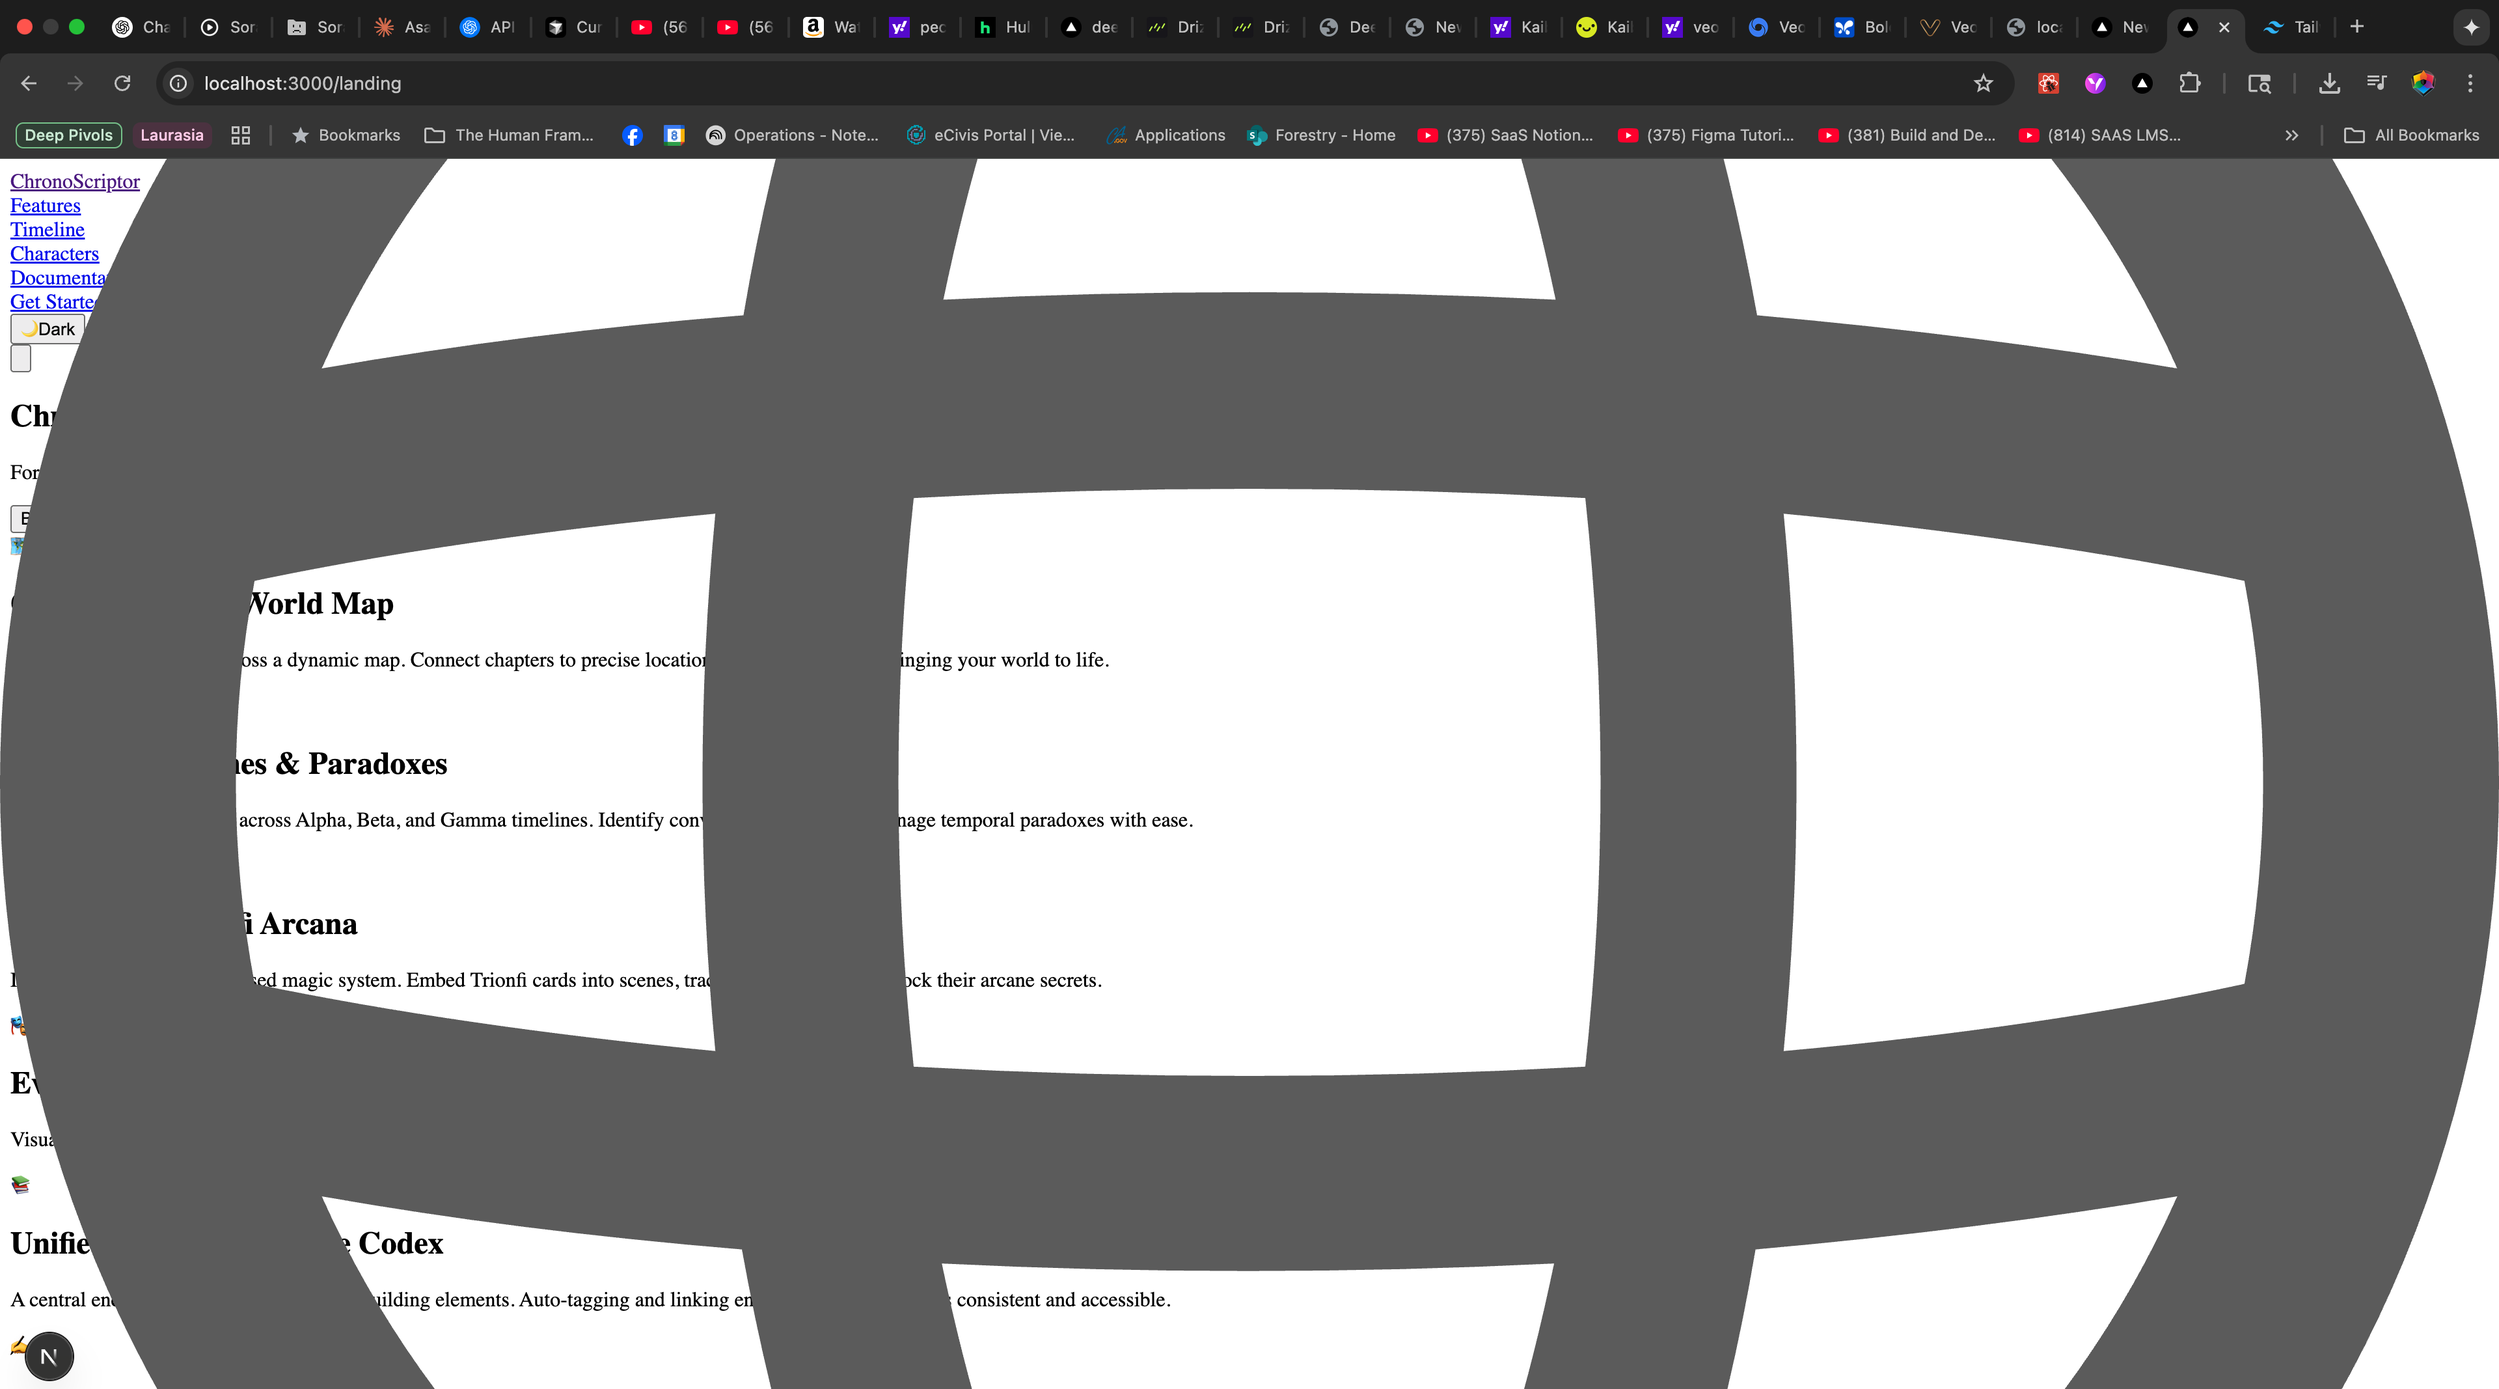
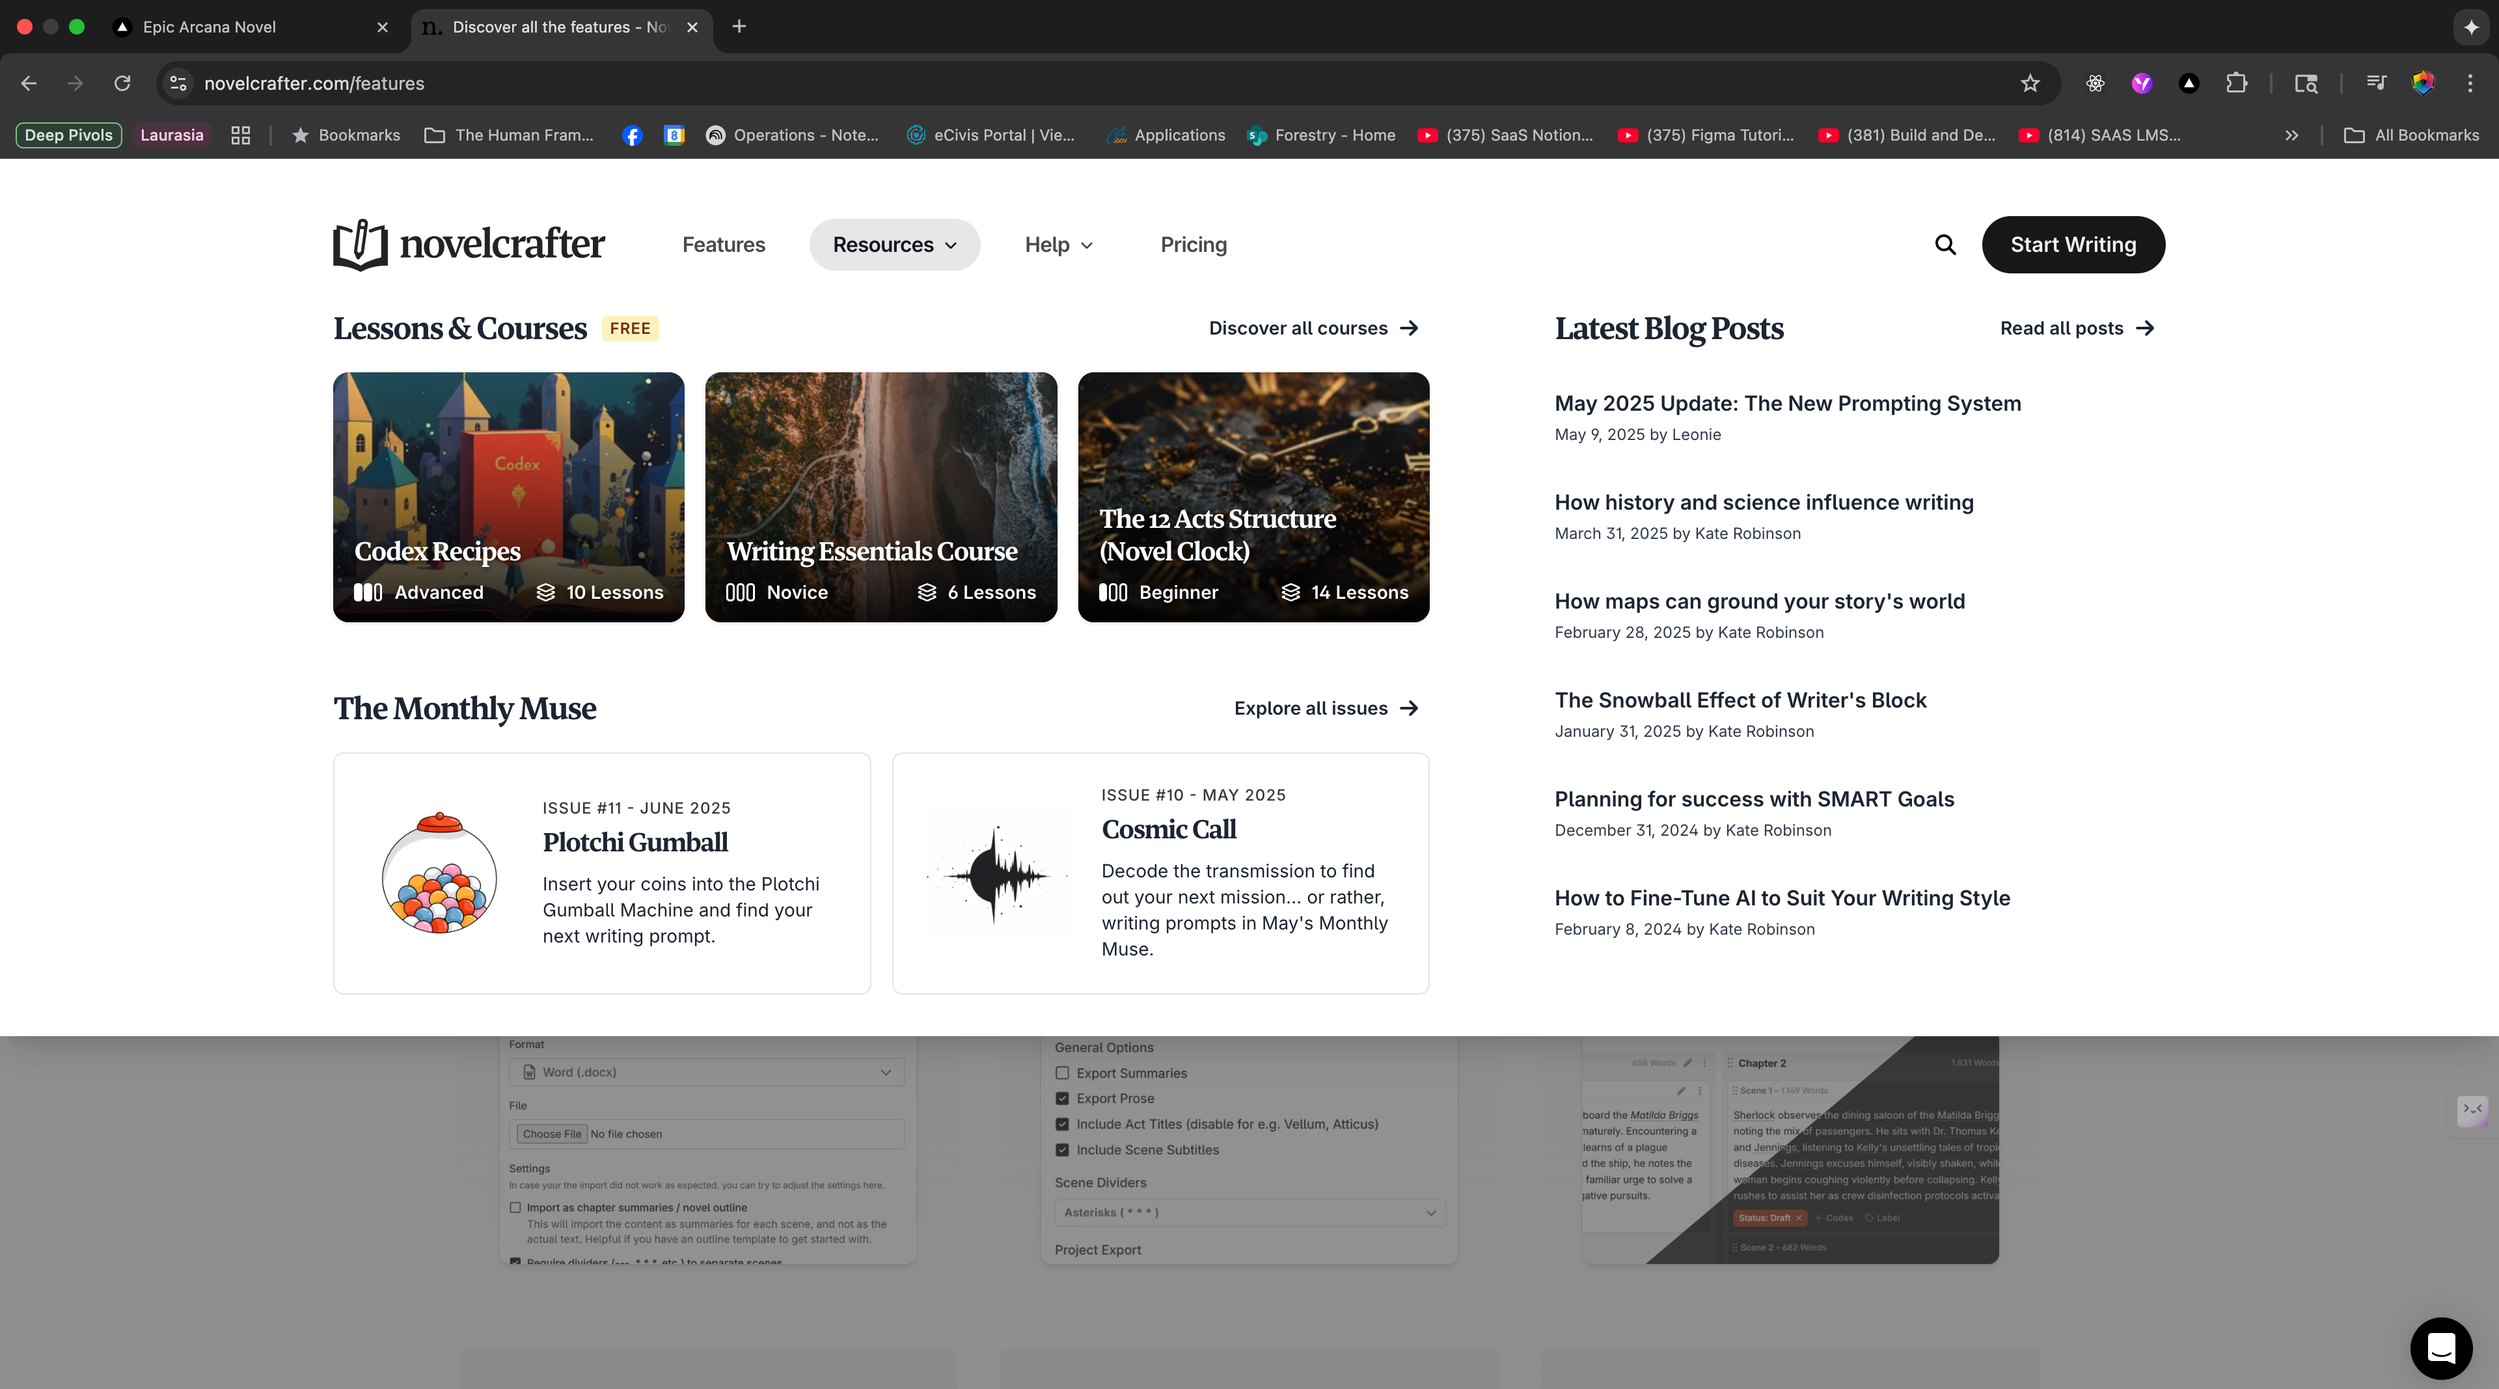
feat: enhance Navbar with features dropdown and mobile menu support
- Added a dropdown menu to the Navbar for showcasing various features with descriptions and icons.
- Updated mobile menu to include a section for features, allowing users to view and navigate to key functionalities easily.
- Removed the 'Features' item from the main navigation list to streamline the menu structure.
- Improved animations and transitions for a more dynamic user experience.

diff --git a/src/app/landing/components/Navbar.tsx b/src/app/landing/components/Navbar.tsx
@@ -4,15 +4,74 @@ import React, { useState } from 'react';
 import { motion, AnimatePresence } from 'framer-motion';
 import Link from 'next/link';
 import { ThemeToggleButton } from '@/components/ThemeToggleButton';
+import { DropdownMenu } from '@/components/DropdownMenu';
 
 export function Navbar() {
   const [isMobileMenuOpen, setIsMobileMenuOpen] = useState(false);
 
   const navItems = [
-    { name: 'Features', href: '#features' },
     { name: 'Timeline', href: '/timeline' },
     { name: 'Characters', href: '/characters' },
     { name: 'Documentation', href: '/docs' },
+  ];
+
+  const featureItems = [
+    {
+      title: 'Chapter-Centric World Map',
+      description: 'Interactive map connecting chapters to locations and lore',
+      href: '/features/world-map',
+      icon: '🗺',
+      category: 'Core Features'
+    },
+    {
+      title: 'Timeline & Paradox System',
+      description: 'Track Alpha, Beta, Gamma timelines and paradox triggers',
+      href: '/features/timelines',
+      icon: '⏳',
+      category: 'Core Features'
+    },
+    {
+      title: 'Trionfi Card Engine',
+      description: 'Embed tarot-based magic system into scenes and chapters',
+      href: '/features/trionfi-cards',
+      icon: '🃏',
+      category: 'Core Features'
+    },
+    {
+      title: 'Chapter Builder',
+      description: 'Markdown editor with Sudowrite sync and AI integration',
+      href: '/features/chapter-builder',
+      icon: '✍',
+      category: 'Writing Tools'
+    },
+    {
+      title: 'Character Arc Visualizer',
+      description: 'Graph-style matrix for character relationships and development',
+      href: '/features/character-arcs',
+      icon: '🎭',
+      category: 'Writing Tools'
+    },
+    {
+      title: 'Lore & Narrative Codex',
+      description: 'Unified encyclopedia with auto-tagging and linking',
+      href: '/features/lore-codex',
+      icon: '📚',
+      category: 'Writing Tools'
+    },
+    {
+      title: 'AI Integration',
+      description: 'Taskmaster AI for scene analysis and arc consistency',
+      href: '/features/ai-tools',
+      icon: '🤖',
+      category: 'AI Tools'
+    },
+    {
+      title: 'Sudowrite Sync',
+      description: 'Seamless integration with Sudowrite for drafting',
+      href: '/features/sudowrite-sync',
+      icon: '🔄',
+      category: 'AI Tools'
+    }
   ];
 
   return (
@@ -43,12 +102,39 @@ export function Navbar() {
             animate={{ opacity: 1, y: 0 }}
             transition={{ duration: 0.5, delay: 0.4, ease: [0.25, 0.1, 0.25, 1] }}
           >
+            {/* Features Dropdown */}
+            <motion.div
+              initial={{ opacity: 0, y: -10 }}
+              animate={{ opacity: 1, y: 0 }}
+              transition={{ duration: 0.3, delay: 0.5 }}
+            >
+              <DropdownMenu
+                trigger={
+                  <div className="flex items-center text-gray-700 dark:text-gray-300 hover:text-purple-600 dark:hover:text-purple-400 font-medium transition-colors duration-200 relative group">
+                    Features
+                    <svg 
+                      className="ml-1 w-4 h-4 transition-transform duration-200 group-hover:rotate-180" 
+                      fill="none" 
+                      stroke="currentColor" 
+                      viewBox="0 0 24 24"
+                    >
+                      <path strokeLinecap="round" strokeLinejoin="round" strokeWidth={2} d="M19 9l-7 7-7-7" />
+                    </svg>
+                    <span className="absolute inset-x-0 -bottom-1 h-0.5 bg-gradient-to-r from-purple-600 to-blue-600 scale-x-0 group-hover:scale-x-100 transition-transform duration-200"></span>
+                  </div>
+                }
+                items={featureItems}
+                title="ChronoScriptor Features"
+              />
+            </motion.div>
+
+            {/* Other Nav Items */}
             {navItems.map((item, index) => (
               <motion.div
                 key={item.name}
                 initial={{ opacity: 0, y: -10 }}
                 animate={{ opacity: 1, y: 0 }}
-                transition={{ duration: 0.3, delay: 0.5 + index * 0.1 }}
+                transition={{ duration: 0.3, delay: 0.6 + index * 0.1 }}
               >
                 <Link
                   href={item.href}
@@ -124,13 +210,46 @@ export function Navbar() {
               transition={{ duration: 0.3, ease: [0.25, 0.1, 0.25, 1] }}
             >
               <div className="flex flex-col space-y-4">
+                {/* Features in Mobile */}
+                <motion.div
+                  initial={{ opacity: 0, x: -20 }}
+                  animate={{ opacity: 1, x: 0 }}
+                  exit={{ opacity: 0, x: -20 }}
+                  transition={{ duration: 0.2, delay: 0 }}
+                >
+                  <div className="text-gray-700 dark:text-gray-300 font-medium py-2">
+                    Features
+                  </div>
+                  <div className="ml-4 space-y-2">
+                    {featureItems.slice(0, 4).map((feature, index) => (
+                      <Link
+                        key={feature.href}
+                        href={feature.href}
+                        className="flex items-center text-sm text-gray-600 dark:text-gray-400 hover:text-purple-600 dark:hover:text-purple-400 transition-colors py-1"
+                        onClick={() => setIsMobileMenuOpen(false)}
+                      >
+                        <span className="mr-2">{feature.icon}</span>
+                        {feature.title}
+                      </Link>
+                    ))}
+                    <Link
+                      href="/features"
+                      className="text-sm text-purple-600 dark:text-purple-400 hover:text-purple-700 dark:hover:text-purple-300 py-1 block"
+                      onClick={() => setIsMobileMenuOpen(false)}
+                    >
+                      View all features →
+                    </Link>
+                  </div>
+                </motion.div>
+
+                {/* Other Nav Items */}
                 {navItems.map((item, index) => (
                   <motion.div
                     key={item.name}
                     initial={{ opacity: 0, x: -20 }}
                     animate={{ opacity: 1, x: 0 }}
                     exit={{ opacity: 0, x: -20 }}
-                    transition={{ duration: 0.2, delay: index * 0.1 }}
+                    transition={{ duration: 0.2, delay: (index + 1) * 0.1 }}
                   >
                     <Link
                       href={item.href}
@@ -145,7 +264,7 @@ export function Navbar() {
                   initial={{ opacity: 0, x: -20 }}
                   animate={{ opacity: 1, x: 0 }}
                   exit={{ opacity: 0, x: -20 }}
-                  transition={{ duration: 0.2, delay: navItems.length * 0.1 }}
+                  transition={{ duration: 0.2, delay: (navItems.length + 1) * 0.1 }}
                   className="pt-2"
                 >
                   <Link

diff --git a/src/components/DropdownMenu.tsx b/src/components/DropdownMenu.tsx
@@ -1,0 +1,147 @@
+"use client";
+
+import React, { useState, useRef, useEffect } from 'react';
+import { motion, AnimatePresence } from 'framer-motion';
+import Link from 'next/link';
+
+interface DropdownItem {
+  title: string;
+  description: string;
+  href: string;
+  icon?: string;
+  category?: string;
+}
+
+interface DropdownMenuProps {
+  trigger: React.ReactNode;
+  items: DropdownItem[];
+  title?: string;
+}
+
+export function DropdownMenu({ trigger, items, title }: DropdownMenuProps) {
+  const [isOpen, setIsOpen] = useState(false);
+  const [hoveredItem, setHoveredItem] = useState<string | null>(null);
+  const dropdownRef = useRef<HTMLDivElement>(null);
+
+  useEffect(() => {
+    function handleClickOutside(event: MouseEvent) {
+      if (dropdownRef.current && !dropdownRef.current.contains(event.target as Node)) {
+        setIsOpen(false);
+      }
+    }
+
+    document.addEventListener('mousedown', handleClickOutside);
+    return () => {
+      document.removeEventListener('mousedown', handleClickOutside);
+    };
+  }, []);
+
+  const groupedItems = items.reduce((acc, item) => {
+    const category = item.category || 'General';
+    if (!acc[category]) {
+      acc[category] = [];
+    }
+    acc[category].push(item);
+    return acc;
+  }, {} as Record<string, DropdownItem[]>);
+
+  return (
+    <div className="relative" ref={dropdownRef}>
+      <motion.div
+        onClick={() => setIsOpen(!isOpen)}
+        onMouseEnter={() => setIsOpen(true)}
+        className="cursor-pointer"
+        whileHover={{ scale: 1.02 }}
+        whileTap={{ scale: 0.98 }}
+      >
+        {trigger}
+      </motion.div>
+
+      <AnimatePresence>
+        {isOpen && (
+          <motion.div
+            className="absolute top-full left-0 mt-2 w-96 bg-white dark:bg-gray-800 rounded-xl shadow-2xl border border-gray-200 dark:border-gray-700 z-50 overflow-hidden"
+            initial={{ opacity: 0, y: -10, scale: 0.95 }}
+            animate={{ opacity: 1, y: 0, scale: 1 }}
+            exit={{ opacity: 0, y: -10, scale: 0.95 }}
+            transition={{ duration: 0.2, ease: [0.4, 0, 0.2, 1] }}
+            onMouseLeave={() => setIsOpen(false)}
+          >
+            {title && (
+              <div className="px-6 py-4 border-b border-gray-200 dark:border-gray-700">
+                <h3 className="text-lg font-semibold text-gray-900 dark:text-white">
+                  {title}
+                </h3>
+              </div>
+            )}
+
+            <div className="py-2">
+              {Object.entries(groupedItems).map(([category, categoryItems]) => (
+                <div key={category}>
+                  {category !== 'General' && (
+                    <div className="px-6 py-2">
+                      <h4 className="text-xs font-medium text-gray-500 dark:text-gray-400 uppercase tracking-wider">
+                        {category}
+                      </h4>
+                    </div>
+                  )}
+                  
+                  {categoryItems.map((item) => (
+                    <Link
+                      key={item.href}
+                      href={item.href}
+                      onClick={() => setIsOpen(false)}
+                    >
+                      <motion.div
+                        className="relative px-6 py-3 hover:bg-gray-50 dark:hover:bg-gray-700 transition-colors duration-200 cursor-pointer"
+                        onMouseEnter={() => setHoveredItem(item.href)}
+                        onMouseLeave={() => setHoveredItem(null)}
+                        whileHover={{ x: 4 }}
+                        transition={{ duration: 0.2 }}
+                      >
+                        <div className="flex items-start space-x-4">
+                          {item.icon && (
+                            <div className="flex-shrink-0 mt-1">
+                              <span className="text-2xl">{item.icon}</span>
+                            </div>
+                          )}
+                          <div className="flex-1 min-w-0">
+                            <p className="text-sm font-medium text-gray-900 dark:text-white">
+                              {item.title}
+                            </p>
+                            <p className="text-sm text-gray-500 dark:text-gray-400 mt-1">
+                              {item.description}
+                            </p>
+                          </div>
+                        </div>
+                        
+                        {hoveredItem === item.href && (
+                          <motion.div
+                            className="absolute left-0 top-0 bottom-0 w-1 bg-gradient-to-b from-purple-600 to-blue-600"
+                            initial={{ opacity: 0, scaleY: 0 }}
+                            animate={{ opacity: 1, scaleY: 1 }}
+                            transition={{ duration: 0.2 }}
+                          />
+                        )}
+                      </motion.div>
+                    </Link>
+                  ))}
+                </div>
+              ))}
+            </div>
+
+            <div className="px-6 py-4 bg-gray-50 dark:bg-gray-900 border-t border-gray-200 dark:border-gray-700">
+              <Link
+                href="/features"
+                className="text-sm font-medium text-purple-600 dark:text-purple-400 hover:text-purple-700 dark:hover:text-purple-300 transition-colors"
+                onClick={() => setIsOpen(false)}
+              >
+                View all features →
+              </Link>
+            </div>
+          </motion.div>
+        )}
+      </AnimatePresence>
+    </div>
+  );
+}
